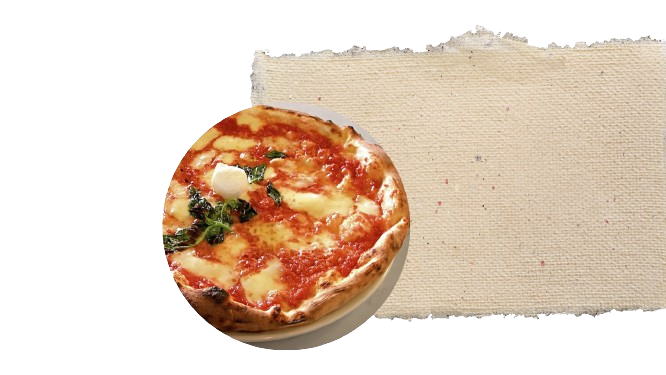
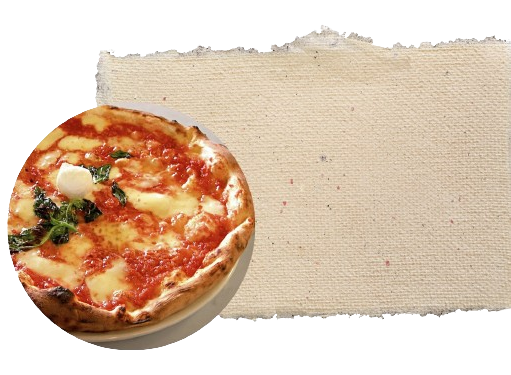
.

diff --git a/style.css b/style.css
@@ -23,6 +23,10 @@ a:hover{
     margin-top: 80px;
 }
 
+.header img{
+    width: 200px;
+}
+
 .menu{
     width: auto;
     text-align: center;
@@ -42,6 +46,7 @@ a:hover{
 .banner{
     width: 100%;
     text-align: center;
+   
 }
 
 .coluna{
@@ -49,6 +54,7 @@ a:hover{
     display: inline-block;
     vertical-align: middle;
 }
+
 
 .banner p{
     font-size: 40px;
@@ -65,7 +71,7 @@ a:hover{
 }
 
 .banner img{
-    width: 90%;
+    width: 100%;
 }
 
 .cardapio{
